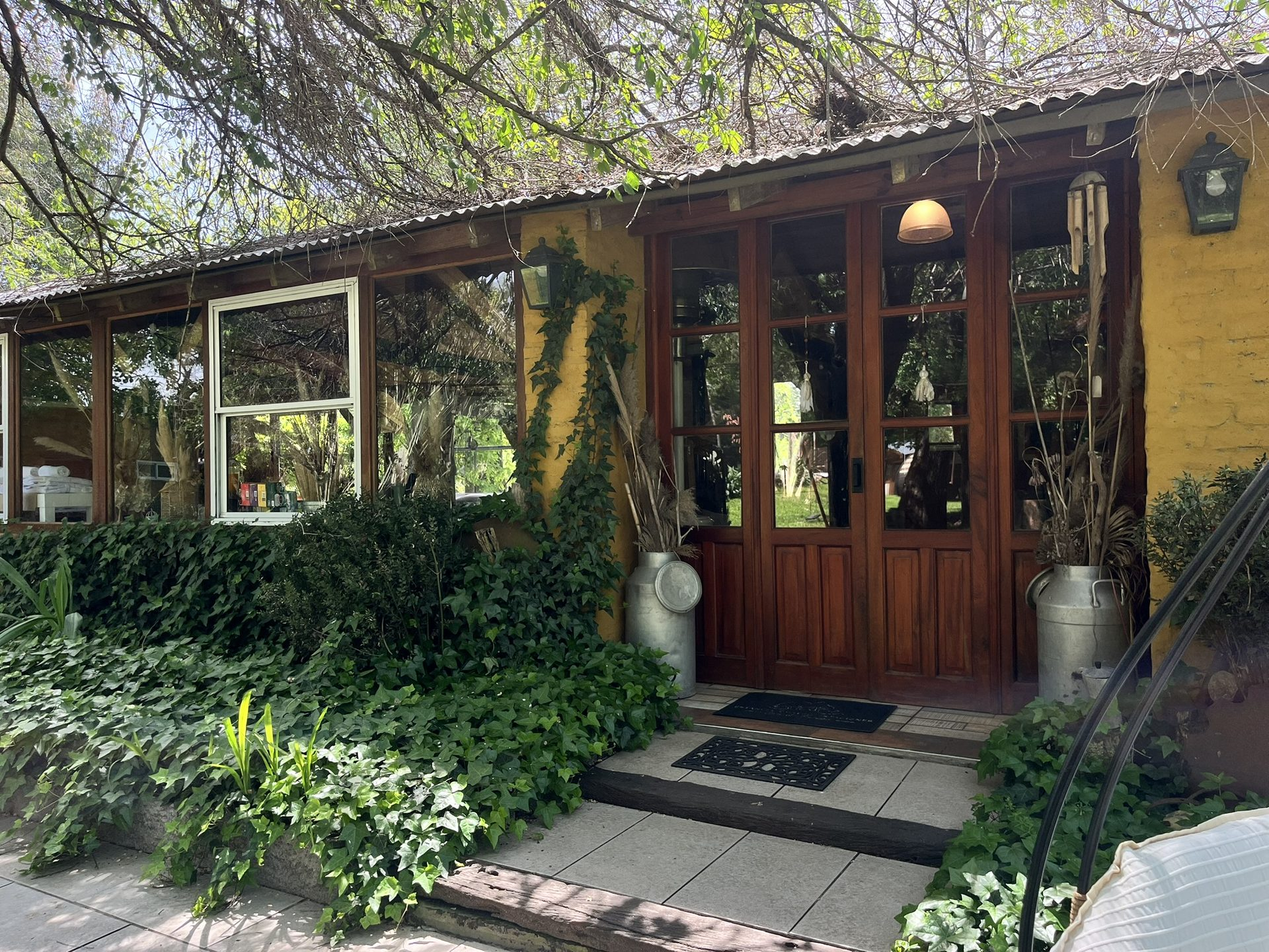
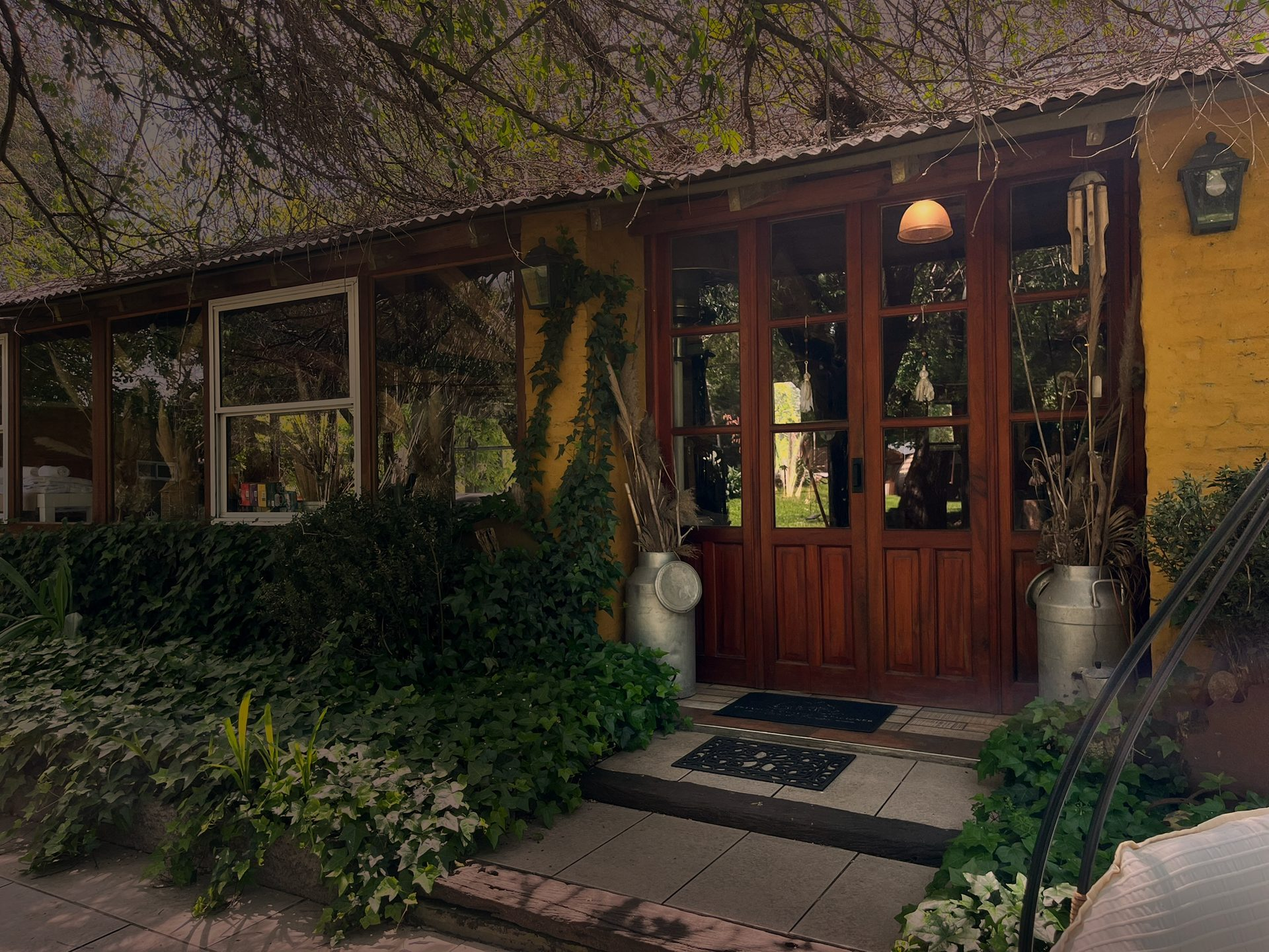
Web: hero-1..4 vuelven a .jpg optimizado (mismo contenido, ~8x mas liviano)
Convierte los hero-1..4 (contenido nuevo que venia en png) a jpg optimizado,
apunta el codigo a .jpg y borra los png pesados sin uso.

diff --git a/web/index.html b/web/index.html
@@ -122,7 +122,7 @@
 </header>
 
 <!-- HERO -->
-<section id="inicio" data-screen-label="Hero" style="position:relative;min-height:94vh;display:flex;align-items:flex-end"> <div style="position: absolute; inset: 0; overflow: hidden"> <div ref="{{ setHeroBgRef }}" style="position:absolute;inset:-6% -6% 0 -6%;will-change:transform"> <img src="fotos/hero-1.png" alt="Estancia Cuatro Estaciones" class="hero-slide" style="position:absolute;inset:0;width:100%;height:100%;object-fit:cover;object-position:center;opacity:1;transition:opacity 1.5s ease"><img src="fotos/hero-2.png" alt="Estancia Cuatro Estaciones" class="hero-slide" style="position:absolute;inset:0;width:100%;height:100%;object-fit:cover;object-position:center;opacity:0;transition:opacity 1.5s ease"><img src="fotos/hero-3.png" alt="Jacuzzi en la cabaña" class="hero-slide" style="position:absolute;inset:0;width:100%;height:100%;object-fit:cover;object-position:center;opacity:0;transition:opacity 1.5s ease"><img src="fotos/hero-4.png" alt="Estancia Cuatro Estaciones" class="hero-slide" style="position:absolute;inset:0;width:100%;height:100%;object-fit:cover;object-position:center;opacity:0;transition:opacity 1.5s ease"><img src="fotos/hero-5.jpg" alt="Estancia Cuatro Estaciones" class="hero-slide" style="position:absolute;inset:0;width:100%;height:100%;object-fit:cover;object-position:center;opacity:0;transition:opacity 1.5s ease"><img src="fotos/hero-6.jpg" alt="Estancia Cuatro Estaciones" class="hero-slide" style="position:absolute;inset:0;width:100%;height:100%;object-fit:cover;object-position:center;opacity:0;transition:opacity 1.5s ease"> <div style="position:absolute;inset:0;background:linear-gradient(200deg, rgba(132,71,19,.35) 0%, rgba(60,62,34,.4) 55%, rgba(37,44,26,.55) 100%)"></div> </div> </div> <div style="position:relative;z-index:2;padding:56px clamp(20px,4vw,56px) clamp(56px,8vw,96px);max-width:760px"> <div style="font-size:11px;letter-spacing:.35em;text-transform:uppercase;color:#ef8627;margin-bottom:18px">Spa de Campo · Virrey del Pino, La Matanza</div> <h1 style="font-family:'Bodoni Moda',serif;font-weight:400;font-size:clamp(38px,7vw,72px);line-height:1.04;color:#fdf5ed;margin:0 0 20px">Un refugio para desconectar del mundo<br>y reconectar con vos.</h1> <p style="font-family:'Montserrat',sans-serif;font-weight:400;font-size:clamp(15px,2vw,19px);color:#fee8ca;max-width:520px;line-height:1.6;margin:0 0 32px">Naturaleza, gastronomía y bienestar en un rincón de campo pensado para compartir en familia, en pareja o entre amigas.</p> <div style="display:flex;flex-wrap:wrap;gap:14px"> <a href="{{ waLinkGeneral }}" target="_blank" style="display:inline-flex;align-items:center;justify-content:center;padding:16px 30px;font-size:12px;font-weight:600;letter-spacing:.08em;text-transform:uppercase;border-radius:999px;background:#eb5f11;color:#fdf5ed;transition:transform .3s ease,background .3s ease" style-hover="background:#ef8627;transform:translateY(-3px)">Reservá por WhatsApp</a> <a href="#circuitos" style="display:inline-flex;align-items:center;justify-content:center;padding:16px 30px;font-size:12px;font-weight:600;letter-spacing:.08em;text-transform:uppercase;border-radius:999px;border:1px solid rgba(253,245,237,.5);color:#fdf5ed;transition:transform .3s ease,background .3s ease,border-color .3s ease" style-hover="border-color:#fdf5ed;background:rgba(253,245,237,.08);transform:translateY(-3px)">Ver circuitos</a> </div> </div> </section>
+<section id="inicio" data-screen-label="Hero" style="position:relative;min-height:94vh;display:flex;align-items:flex-end"> <div style="position: absolute; inset: 0; overflow: hidden"> <div ref="{{ setHeroBgRef }}" style="position:absolute;inset:-6% -6% 0 -6%;will-change:transform"> <img src="fotos/hero-1.jpg" alt="Estancia Cuatro Estaciones" class="hero-slide" style="position:absolute;inset:0;width:100%;height:100%;object-fit:cover;object-position:center;opacity:1;transition:opacity 1.5s ease"><img src="fotos/hero-2.jpg" alt="Estancia Cuatro Estaciones" class="hero-slide" style="position:absolute;inset:0;width:100%;height:100%;object-fit:cover;object-position:center;opacity:0;transition:opacity 1.5s ease"><img src="fotos/hero-3.jpg" alt="Jacuzzi en la cabaña" class="hero-slide" style="position:absolute;inset:0;width:100%;height:100%;object-fit:cover;object-position:center;opacity:0;transition:opacity 1.5s ease"><img src="fotos/hero-4.jpg" alt="Estancia Cuatro Estaciones" class="hero-slide" style="position:absolute;inset:0;width:100%;height:100%;object-fit:cover;object-position:center;opacity:0;transition:opacity 1.5s ease"><img src="fotos/hero-5.jpg" alt="Estancia Cuatro Estaciones" class="hero-slide" style="position:absolute;inset:0;width:100%;height:100%;object-fit:cover;object-position:center;opacity:0;transition:opacity 1.5s ease"><img src="fotos/hero-6.jpg" alt="Estancia Cuatro Estaciones" class="hero-slide" style="position:absolute;inset:0;width:100%;height:100%;object-fit:cover;object-position:center;opacity:0;transition:opacity 1.5s ease"> <div style="position:absolute;inset:0;background:linear-gradient(200deg, rgba(132,71,19,.35) 0%, rgba(60,62,34,.4) 55%, rgba(37,44,26,.55) 100%)"></div> </div> </div> <div style="position:relative;z-index:2;padding:56px clamp(20px,4vw,56px) clamp(56px,8vw,96px);max-width:760px"> <div style="font-size:11px;letter-spacing:.35em;text-transform:uppercase;color:#ef8627;margin-bottom:18px">Spa de Campo · Virrey del Pino, La Matanza</div> <h1 style="font-family:'Bodoni Moda',serif;font-weight:400;font-size:clamp(38px,7vw,72px);line-height:1.04;color:#fdf5ed;margin:0 0 20px">Un refugio para desconectar del mundo<br>y reconectar con vos.</h1> <p style="font-family:'Montserrat',sans-serif;font-weight:400;font-size:clamp(15px,2vw,19px);color:#fee8ca;max-width:520px;line-height:1.6;margin:0 0 32px">Naturaleza, gastronomía y bienestar en un rincón de campo pensado para compartir en familia, en pareja o entre amigas.</p> <div style="display:flex;flex-wrap:wrap;gap:14px"> <a href="{{ waLinkGeneral }}" target="_blank" style="display:inline-flex;align-items:center;justify-content:center;padding:16px 30px;font-size:12px;font-weight:600;letter-spacing:.08em;text-transform:uppercase;border-radius:999px;background:#eb5f11;color:#fdf5ed;transition:transform .3s ease,background .3s ease" style-hover="background:#ef8627;transform:translateY(-3px)">Reservá por WhatsApp</a> <a href="#circuitos" style="display:inline-flex;align-items:center;justify-content:center;padding:16px 30px;font-size:12px;font-weight:600;letter-spacing:.08em;text-transform:uppercase;border-radius:999px;border:1px solid rgba(253,245,237,.5);color:#fdf5ed;transition:transform .3s ease,background .3s ease,border-color .3s ease" style-hover="border-color:#fdf5ed;background:rgba(253,245,237,.08);transform:translateY(-3px)">Ver circuitos</a> </div> </div> </section>
 
 <!-- NOSOTROS -->
 <section id="nosotros" data-screen-label="Nosotros" style="background:#fdf5ed;padding:clamp(64px,10vw,120px) clamp(20px,6vw,80px)">
